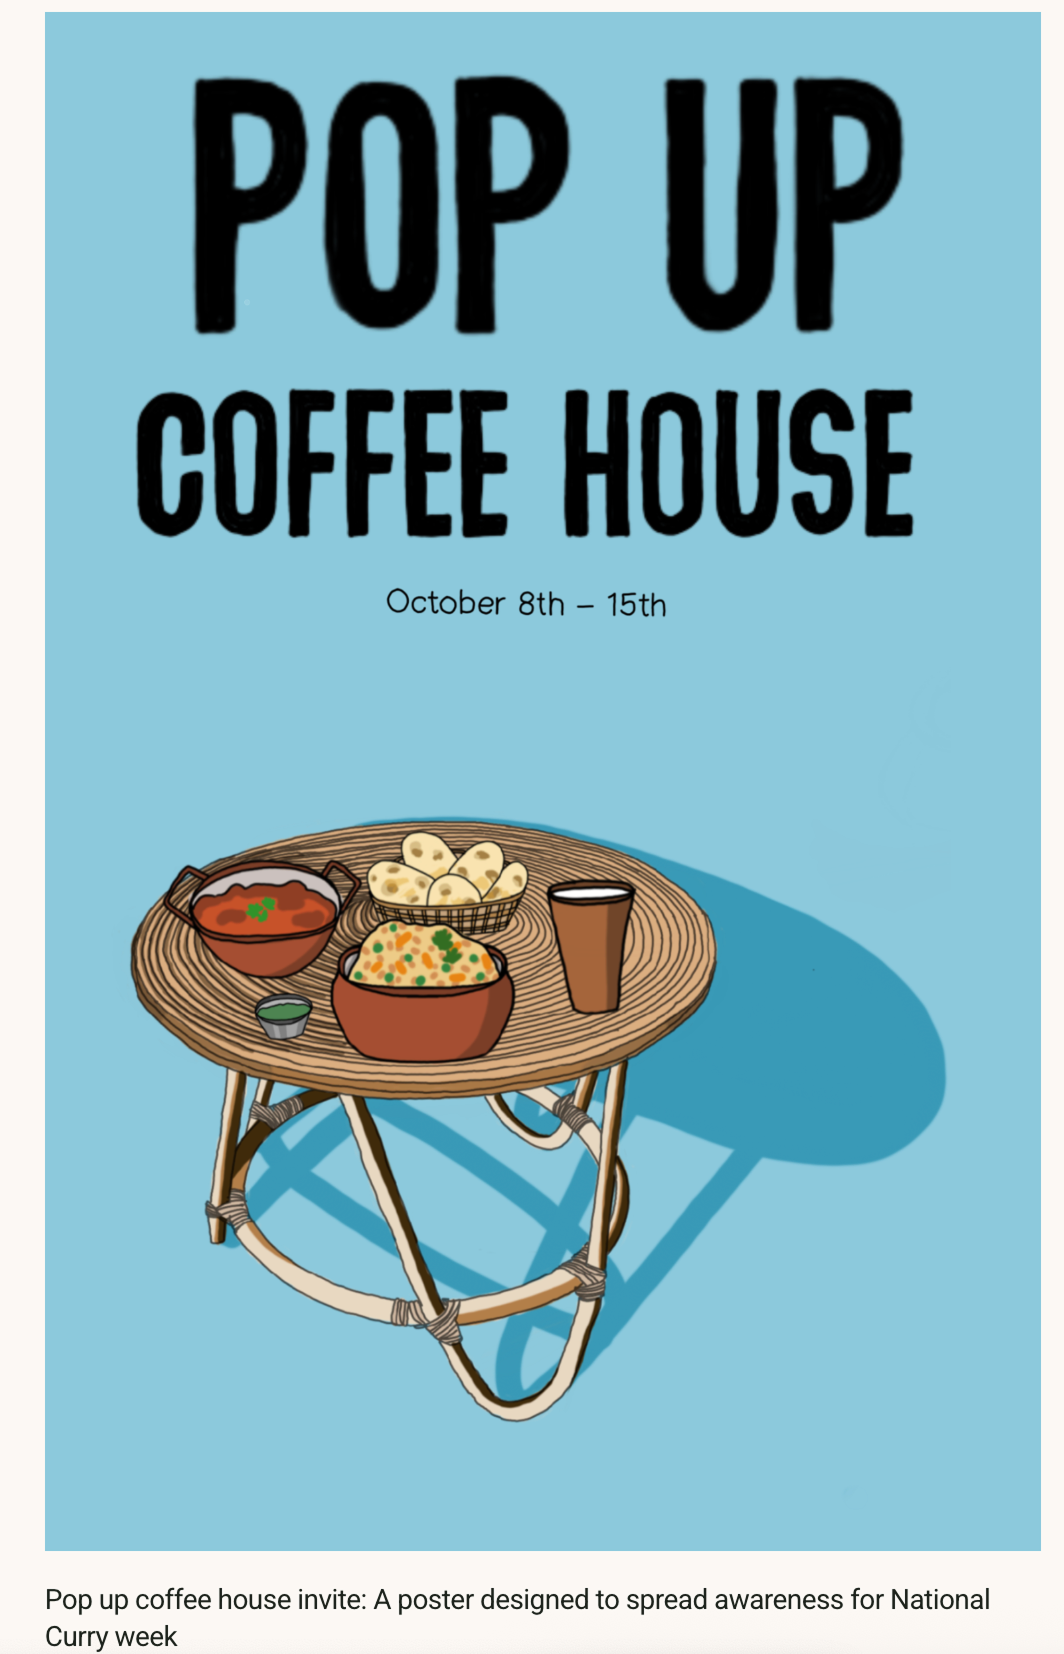
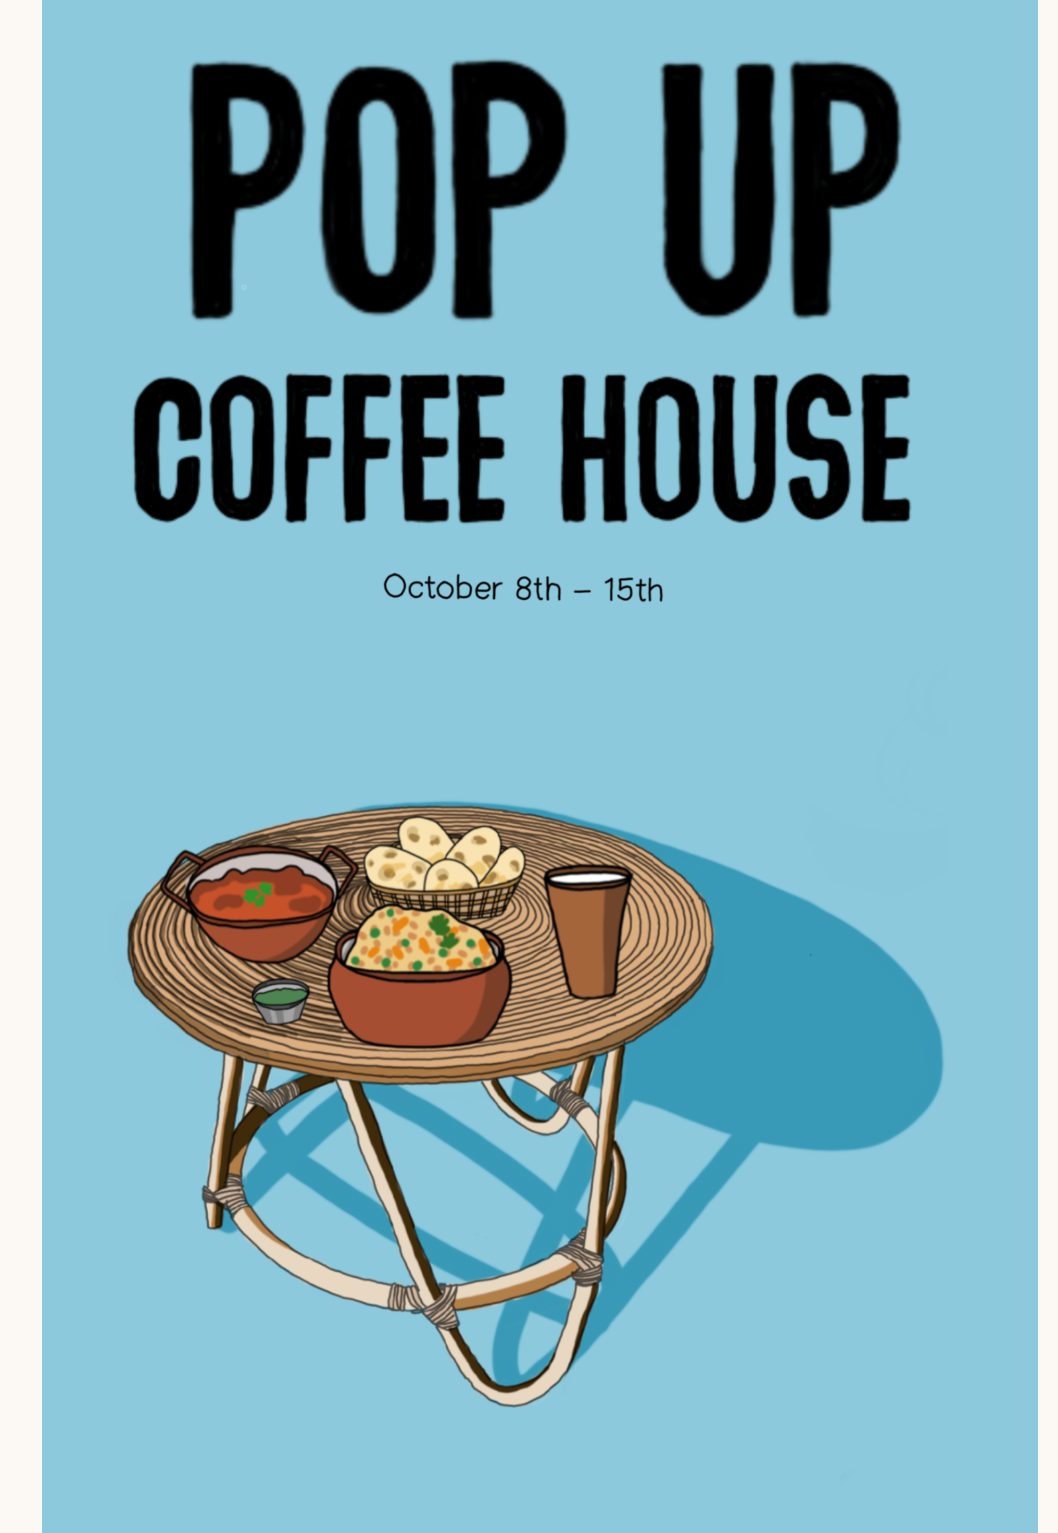
Update about page and beyond gallery images
Split industrial-1 and industrial-7 into separate a/b images to give each project its own caption, and touch up the industrial/creative photo set.

Changed region(s): [[0.0312, 0.4905, 0.9981, 1.0], [0.0312, 0.0, 0.9981, 0.3986]]

diff --git a/app/about/page.tsx b/app/about/page.tsx
@@ -238,21 +238,50 @@ export default function About() {
               I build for longevity, ergonomics, and real-world utility.
             </p>
 
-            {/* Row 1: 2 images */}
-            <div style={{ display: "flex", gap: "24px", marginTop: "24px", alignItems: "flex-start" }}>
-              <Image src="/beyond/industrial-1.png" alt="Industrial design 1" width={2160} height={880} style={{ display: "block", height: "320px", width: "auto" }} />
-              <Image src="/beyond/industrial-2.png" alt="Industrial design 2" width={836} height={1032} style={{ display: "block", height: "320px", width: "auto" }} />
-            </div>
-            {/* Row 2: 3 images */}
-            <div style={{ display: "flex", gap: "24px", marginTop: "24px", alignItems: "flex-start" }}>
-              <Image src="/beyond/industrial-3.png" alt="Industrial design 3" width={1132} height={1200} style={{ display: "block", height: "320px", width: "auto" }} />
-              <Image src="/beyond/industrial-4.png" alt="Industrial design 4" width={1076} height={1300} style={{ display: "block", height: "320px", width: "auto" }} />
-              <Image src="/beyond/industrial-5.png" alt="Industrial design 5" width={1042} height={880} style={{ display: "block", height: "320px", width: "auto" }} />
-            </div>
-            {/* Row 3: 2 images */}
-            <div style={{ display: "flex", gap: "24px", marginTop: "24px", alignItems: "flex-start" }}>
-              <Image src="/beyond/industrial-6.png" alt="Industrial design 6" width={1044} height={1136} style={{ display: "block", height: "320px", width: "auto" }} />
-              <Image src="/beyond/industrial-7.png" alt="Industrial design 7" width={2186} height={904} style={{ display: "block", height: "320px", width: "auto" }} />
+            {/* 2-column grid */}
+            <div
+              style={{
+                display: "grid",
+                gridTemplateColumns: "1fr 1fr",
+                gap: "40px",
+                marginTop: "24px",
+              }}
+            >
+              {[
+                { src: "/beyond/industrial-1a.png", alt: "Pop-up gardening cart for elderly", caption: "Design for elderly: A pop-up gardening cart for community common spaces in cities" },
+                { src: "/beyond/industrial-1b.png", alt: "Windfall lighting exhibit design", caption: "Windfall: Lighting Exhibit Design" },
+                { src: "/beyond/industrial-2.png", alt: "Ripples lighting exhibit design", caption: "Ripples: Lighting Exhibit Design" },
+                { src: "/beyond/industrial-3.png", alt: "Allerpack travel kit for food allergies", caption: "Allerpack: A travel kit for food allergies" },
+                { src: "/beyond/industrial-4.png", alt: "Green and Garnishes serving set", caption: "Green and Garnishes serving set: An all-inclusive salad bowl made for the Uncommon Goods brand catalog" },
+                { src: "/beyond/industrial-5.png", alt: "Globetrotter game for kids", caption: "Globetrotter: An imaginative game for kids to promote story-telling and problem-solving" },
+                { src: "/beyond/industrial-6.png", alt: "Lemon squeezer design", caption: "Lemon Squeezer design: A lemon squeezing mechanism designed to minimize mess" },
+                { src: "/beyond/industrial-7a.png", alt: "Hairdryer design", caption: "Hairdryer Design: A scaled hairdryer designed with the internal components of a real hairdryer" },
+                { src: "/beyond/industrial-7b.png", alt: "Wanderlust piggy bank", caption: "Wanderlust Bank: A piggy bank for kids designed to evoke the thrill of vacations" },
+              ].map(({ src, alt, caption }) => (
+                <div key={src}>
+                  <div style={{ height: "320px", overflow: "hidden" }}>
+                    <Image
+                      src={src}
+                      alt={alt}
+                      width={800}
+                      height={600}
+                      style={{ display: "block", width: "100%", height: "100%", objectFit: "cover" }}
+                    />
+                  </div>
+                  <p
+                    style={{
+                      fontFamily: "'Nunito', sans-serif",
+                      fontWeight: 400,
+                      fontSize: "14px",
+                      color: "#275F55",
+                      marginTop: "12px",
+                      lineHeight: 1.4,
+                    }}
+                  >
+                    {caption}
+                  </p>
+                </div>
+              ))}
             </div>
           </div>
 
@@ -277,28 +306,49 @@ export default function About() {
               I love tinkering with new tools and mediums that feed my creativity.
             </p>
 
-            {/* Masonry via CSS columns */}
-            <div style={{ columns: 3, columnGap: "20px", marginTop: "24px" }}>
+            {/* 2-column grid */}
+            <div
+              style={{
+                display: "grid",
+                gridTemplateColumns: "1fr 1fr",
+                gap: "40px",
+                marginTop: "24px",
+              }}
+            >
               {[
-                { n: 1, w: 1064, h: 1654 },
-                { n: 2, w: 1064, h: 1154 },
-                { n: 3, w: 1054, h: 838 },
-                { n: 4, w: 1030, h: 1534 },
-                { n: 5, w: 1056, h: 1426 },
-                { n: 6, w: 1046, h: 748 },
-                { n: 7, w: 1042, h: 1650 },
-                { n: 8, w: 1064, h: 962 },
-                { n: 9, w: 1068, h: 942 },
-                { n: 10, w: 1084, h: 1450 },
-              ].map(({ n, w, h }) => (
-                <div key={n} style={{ breakInside: "avoid", marginBottom: "20px" }}>
-                  <Image
-                    src={`/beyond/creative-${n}.png`}
-                    alt={`Creative ${n}`}
-                    width={w}
-                    height={h}
-                    style={{ display: "block", width: "100%", height: "auto" }}
-                  />
+                { n: 1, alt: "Pop up coffee house poster", caption: "Pop up coffee house invite: A poster designed to spread awareness for National Curry week" },
+                { n: 2, alt: "Pop up christmas card", caption: "Pop up christmas card" },
+                { n: 3, alt: "Rikshaw car concept sketch", caption: "Digital sketch: Rikshaw car concept" },
+                { n: 4, alt: "Mushroom observation sketches", caption: "Observation sketches of mushrooms at the Brooklyn botanical garden" },
+                { n: 5, alt: "Museum of natural history sketches", caption: "Observation sketches at the Museum of natural history" },
+                { n: 6, alt: "Paper planar study", caption: "Paper planar study: A 3D study using a 2D paper to explore 3D principles" },
+                { n: 7, alt: "Convexity study sculpture", caption: "Convexity study: Exploring 3D form through hierarchy, gesture, movement and visual interest using positive and negative spaces" },
+                { n: 8, alt: "Rectilinear study", caption: "Rectilinear study: a rectilinear form that has spacial tension and movement using proportionally diverse components." },
+                { n: 9, alt: "Teapot abstraction", caption: "Teapot abstraction: Depicting the concept of a tea party using 3D principles on CAD" },
+                { n: 10, alt: "Wooden photo frame", caption: "Wooden photo frame" },
+              ].map(({ n, alt, caption }) => (
+                <div key={n}>
+                  <div style={{ height: "320px", overflow: "hidden" }}>
+                    <Image
+                      src={`/beyond/creative-${n}.png`}
+                      alt={alt}
+                      width={800}
+                      height={600}
+                      style={{ display: "block", width: "100%", height: "100%", objectFit: "cover" }}
+                    />
+                  </div>
+                  <p
+                    style={{
+                      fontFamily: "'Nunito', sans-serif",
+                      fontWeight: 400,
+                      fontSize: "14px",
+                      color: "#275F55",
+                      marginTop: "12px",
+                      lineHeight: 1.4,
+                    }}
+                  >
+                    {caption}
+                  </p>
                 </div>
               ))}
             </div>
